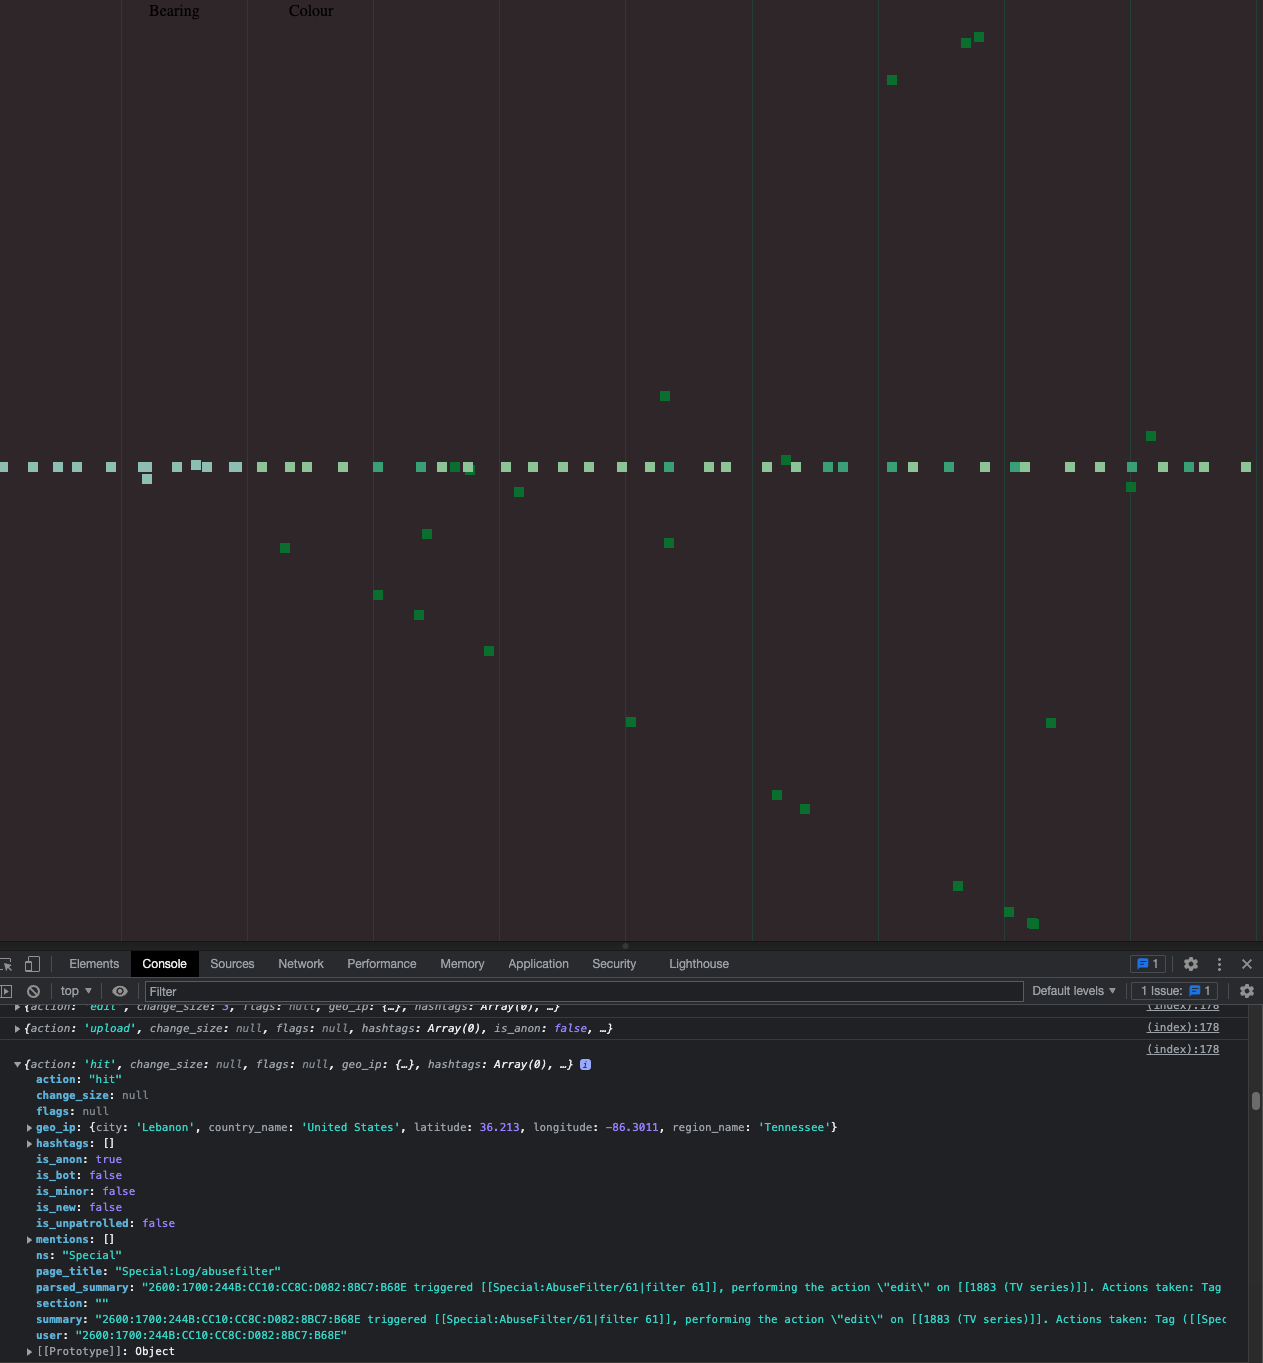
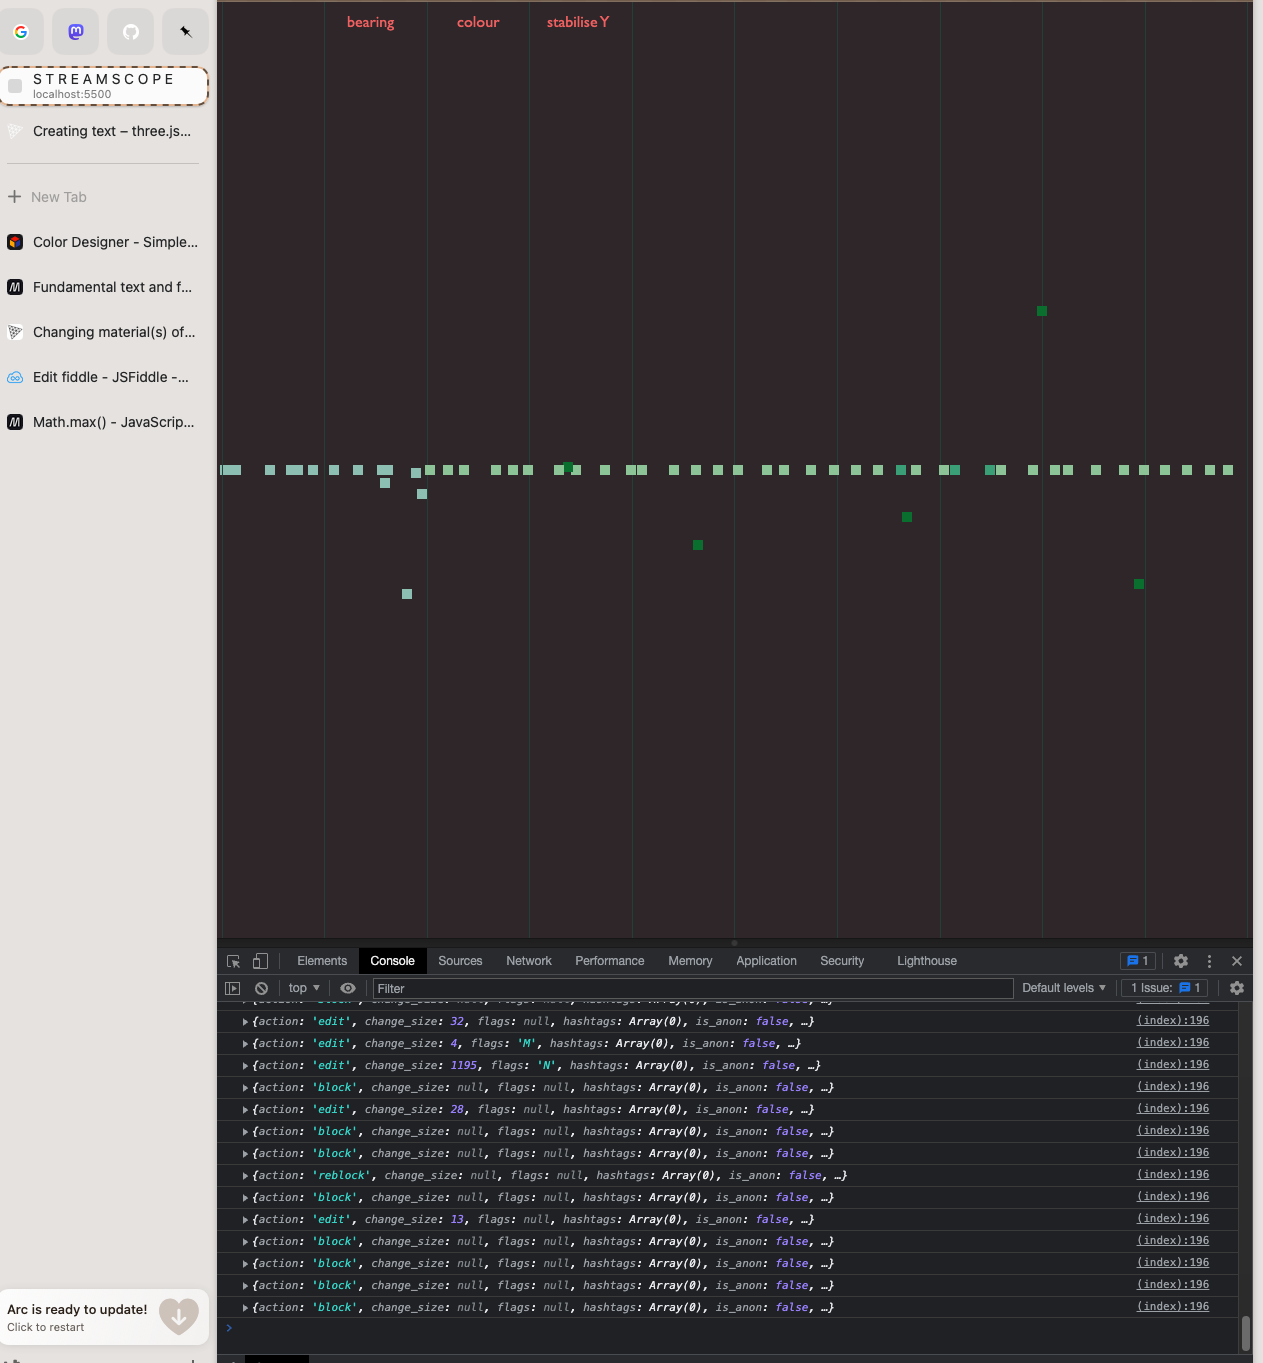
small update to today's log and screenshot

diff --git a/README.md b/README.md
@@ -17,6 +17,10 @@ New thoughts:
 * even with just these two little hard coded transformations the tool is starting to do part of its job in the sense that I want to know more about the data as it flows across the screen. The tool right now does a terrible job at letting you find stuff out. Going to need to think about some section options that help you look into the data a bit more, like a "label" section or something. 
 * could be fun to have an offset section, which is essentially the bearing section where the `dy` is set back to 0 as you cross out of the section. I quite want to map longitude of the wiki edits to a vertical access of streamscope. Does beg the question about how to represent the sections not just as fields but as border crossings. Or should we have a section that is a sort of "stabilise" field, that takes the bearing and sets it back to zero again? Actually I might do that now....
 
+Turns out the stabilise idea is qutie nice; again could make it a field that applies a force such that by the end of the field the `dy = 0` and that would loook a lot better. To implement the longitude idea now I'd create a bearing field that spreads the particles apart by longitude and then a stabilise field that sets the bearing back to 0.
+
+On implementing this new field (actually the CSS for positioning its label) it strikes me that I don't understand the coordinate system of any of the stuff on the screen. We've got a sort of absolute coordinate sytem which the vertical lines follow (I think (0,0) is maybe in the middle of the screen? I forget), the coordinates the particles follow which seem to be relative to their starting position, and then pixel coordinates I'm using in the CSS to position the section labels. #TODO. 
+
 Outstanding tasks carried over from yesterday:
 * make a menu; let the user choose the nature of each field
 * figure out how to free up memory
